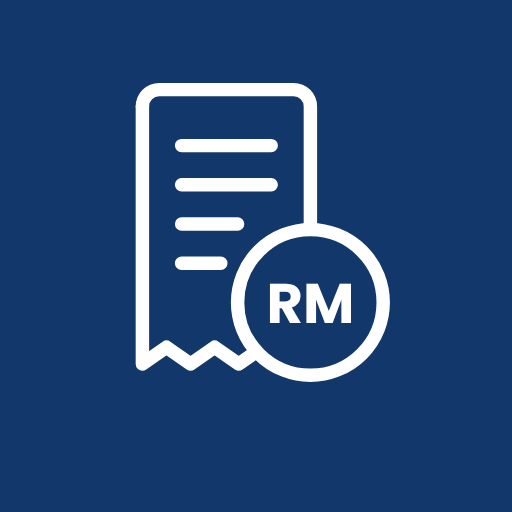
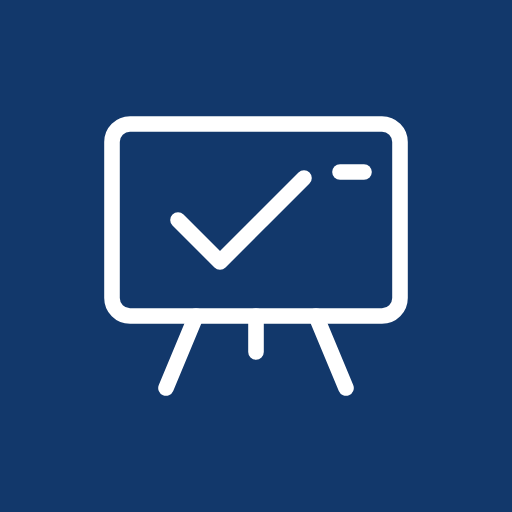
v1.8.0: Tukar nama kepada Kelasku — pembantu digital guru kelas
Nama, ikon, halaman panduan & manifest dikemas kini. Sheet/folder sedia ada
tidak terjejas (dicari melalui ID).

Claude-Session: https://claude.ai/code/session_01KuVRpLkTuLi7cEMoJuzni8

Changed region(s): [[0.1875, 0.1562, 0.8125, 0.7812]]

diff --git a/docs/index.html b/docs/index.html
@@ -3,11 +3,11 @@
 <head>
 <meta charset="utf-8">
 <meta name="viewport" content="width=device-width, initial-scale=1">
-<title>e-Yuran Murid — rekod bayaran yuran &amp; resit WhatsApp untuk guru</title>
+<title>Kelasku — pembantu digital guru kelas</title>
 <meta name="description" content="Web app percuma untuk guru merekod bayaran yuran murid (YMA, PIBG, dobi) ke Google Sheets, dengan resit dari WhatsApp ibu bapa, ringkasan kutipan dan mesej WhatsApp automatik.">
-<meta property="og:title" content="e-Yuran Murid">
+<meta property="og:title" content="Kelasku — pembantu digital guru kelas">
 <meta property="og:description" content="Rekod yuran murid & resit WhatsApp ibu bapa ke Google Sheets. Percuma, mesra telefon.">
-<meta property="og:image" content="https://g-03355699-tech.github.io/e-yuran-murid/skrin-1.jpg">
+<meta property="og:image" content="https://g-03355699-tech.github.io/kelasku/skrin-1.jpg">
 <link rel="apple-touch-icon" href="app/ikon-180.png">
 <link rel="icon" type="image/png" href="app/ikon-192.png">
 <link rel="preconnect" href="https://fonts.googleapis.com"><link rel="preconnect" href="https://fonts.gstatic.com" crossorigin>
@@ -96,12 +96,13 @@ footer{text-align:center;color:var(--kelabu);font-size:.85rem;padding:30px 20px 
     <div class="grid">
       <div>
         <svg class="logo" viewBox="0 0 64 64" aria-hidden="true" fill="none" stroke="currentColor" stroke-width="2" stroke-linecap="round" stroke-linejoin="round">
-          <path d="M14 9a3 3 0 0 1 3-3h24a3 3 0 0 1 3 3v24"/><path d="M14 9v46l4.3-3 4.3 3 4.3-3 4.3 3 4.3-3"/>
-          <path d="M21 16h16M21 23h16M21 30h10M21 37h7"/><circle cx="44" cy="44" r="13" style="fill:var(--latar-logo)"/>
-          <text x="44" y="47.5" text-anchor="middle" font-size="10" font-weight="700" fill="currentColor" stroke="none" font-family="Poppins, sans-serif">RM</text>
+          <rect x="8" y="10" width="48" height="32" rx="3"/>
+          <path d="M22 42l-5 12M42 42l5 12M32 42v6"/>
+          <path d="M19 26l7 7 14-14"/>
+          <path d="M46 18h4"/>
         </svg>
-        <h1>e-Yuran Murid <span class="versi">v1.7.1</span></h1>
-        <p class="lead">Rekod bayaran yuran murid — YMA, PIBG, dobi dan lain-lain — terus dari telefon. Ibu bapa hantar resit melalui WhatsApp, guru muat naik ke app, dan semuanya tersusun dalam Google Sheet. <b>Percuma</b>, dan data disimpan dalam Google Drive anda sendiri.</p>
+        <h1>Kelasku <span class="versi">v1.8.0</span></h1>
+        <p class="lead">Pembantu digital guru kelas. Rekod bayaran yuran murid (YMA, PIBG, dobi dan lain-lain) dan simpan eviden surat sakit / MC terus dari telefon. Ibu bapa hantar resit atau surat melalui WhatsApp, guru muat naik ke app, dan semuanya tersusun dalam Google Sheet. <b>Percuma</b>, dan data disimpan dalam Google Drive anda sendiri.</p>
         <div class="aksi">
           <a class="butang" id="btnBuka" href="#" target="_blank" rel="noopener">Buka App →</a>
           <a class="butang sekunder" href="app/">Pasang di telefon</a>
@@ -120,6 +121,7 @@ footer{text-align:center;color:var(--kelabu);font-size:.85rem;padding:30px 20px 
     <div class="grid-ciri">
       <div class="ciri"><svg class="ik"><use href="#i-resit"/></svg><h3>Resit dari WhatsApp</h3><p>Muat naik gambar atau PDF resit. Di komputer, salin gambar dalam WhatsApp Web dan tekan <b>Ctrl+V</b> — siap.</p></div>
       <div class="ciri"><svg class="ik"><use href="#i-ocr"/></svg><h3>Baca resit automatik</h3><p>Selepas resit dimuat naik, app membaca jumlah, tarikh, No. rujukan &amp; bank (OCR Google Drive) dan mengisi borang untuk anda semak.</p></div>
+      <div class="ciri"><svg class="ik"><use href="#i-pdf"/></svg><h3>Eviden surat sakit / MC</h3><p>Simpan surat sakit atau surat sebab (gambar / PDF) yang dihantar ibu bapa melalui WhatsApp. App membaca surat dan mengisi tarikh tidak hadir, jenis surat &amp; catatan secara automatik, serta menyemak nama murid.</p></div>
       <div class="ciri"><svg class="ik"><use href="#i-pdf"/></svg><h3>Penyata untuk ibu bapa</h3><p>Pautan PDF penyata yuran setiap murid — ibu bapa boleh semak status &amp; baki bila-bila masa tanpa log masuk. Dikemas kini automatik.</p></div>
       <div class="ciri"><svg class="ik"><use href="#i-log"/></svg><h3>Log audit &amp; Sampah</h3><p>Setiap tambah, ubah &amp; padam direkodkan (siapa, bila, sebelum → selepas). Bayaran dipadam masuk Sampah dan boleh dipulihkan.</p></div>
       <div class="ciri"><svg class="ik"><use href="#i-agih"/></svg><h3>Satu resit, banyak yuran</h3><p>Isi jumlah resit dan tekan <i>Agih automatik</i> — dibahagikan kepada YMA, PIBG dan lain-lain ikut baki.</p></div>
@@ -151,16 +153,16 @@ footer{text-align:center;color:var(--kelabu);font-size:.85rem;padding:30px 20px 
     <p class="sub">Untuk guru yang menguruskan yuran kelas atau sekolah. Ambil masa kira-kira 2 minit.</p>
     <div class="langkah">
       <div class="l"><h3>Tekan “Buka App”</h3><p>Di telefon atau komputer. Di komputer, anda juga boleh imbas kod QR di atas dengan telefon.</p></div>
-      <div class="l"><h3>Log masuk akaun Google</h3><p>Pilih akaun yang mahu digunakan. Sheet <i>e-Yuran Murid</i> akan dicipta dalam Google Drive akaun ini.
+      <div class="l"><h3>Log masuk akaun Google</h3><p>Pilih akaun yang mahu digunakan. Sheet <i>Kelasku</i> akan dicipta dalam Google Drive akaun ini.
         Jika akaun DELIMa (<code>@moe-dl.edu.my</code>) tidak dibenarkan oleh pentadbir domain, gunakan akaun Gmail.</p></div>
       <div class="l penting"><h3>Amaran “Google hasn’t verified this app”</h3>
         <p>Ini <b>normal</b> untuk app percuma yang dibina sendiri dan belum melalui proses semakan Google. Untuk teruskan:</p>
         <div class="lakaran">
           <div class="t">Google hasn’t verified this app</div>
           <div class="baris"><span class="anak-panah">① tekan</span> <span class="pautan">Advanced</span></div>
-          <div class="baris"><span class="anak-panah">② tekan</span> <span class="pautan">Go to e-Yuran Murid (unsafe)</span></div>
+          <div class="baris"><span class="anak-panah">② tekan</span> <span class="pautan">Go to Kelasku (unsafe)</span></div>
         </div>
-        <p style="margin-top:10px">Perkataan “unsafe” hanya bermaksud app belum disemak oleh Google. Kod sumber app ini terbuka untuk dilihat di <a href="https://github.com/g-03355699-tech/e-yuran-murid" target="_blank" rel="noopener">GitHub</a>.</p>
+        <p style="margin-top:10px">Perkataan “unsafe” hanya bermaksud app belum disemak oleh Google. Kod sumber app ini terbuka untuk dilihat di <a href="https://github.com/g-03355699-tech/kelasku" target="_blank" rel="noopener">GitHub</a>.</p>
       </div>
       <div class="l"><h3>Tekan “Allow” untuk benarkan akses</h3>
         <p>App memerlukan kebenaran ini untuk berfungsi:</p>
@@ -179,7 +181,7 @@ footer{text-align:center;color:var(--kelabu);font-size:.85rem;padding:30px 20px 
 
 <section style="padding-top:0">
   <div class="bekas">
-    <h2>Rutin harian: dari WhatsApp ke e-Yuran</h2>
+    <h2>Rutin harian: dari WhatsApp ke Kelasku</h2>
     <p class="sub">Kurang seminit bagi setiap resit.</p>
     <div class="langkah">
       <div class="l wa"><h3>Ibu bapa hantar resit melalui WhatsApp</h3><p>Gambar resit bank, tangkapan skrin FPX atau PDF.</p></div>
@@ -207,20 +209,20 @@ footer{text-align:center;color:var(--kelabu);font-size:.85rem;padding:30px 20px 
     <h2>Privasi &amp; keselamatan</h2>
     <p class="sub">Data murid kekal dalam akaun Google sekolah/guru — bukan pada pelayan pembangun.</p>
     <div class="privasi">
-      <h3>Di mana data disimpan?</h3><p>Dalam Google Sheet <i>e-Yuran Murid</i> di Google Drive guru yang mula-mula membuka app. Resit disimpan dalam folder <i>Resit e-Yuran Murid</i> di Drive guru yang memuat naik, dan salinannya dalam tab tersembunyi <code>ResitData</code> supaya semua guru yang dikongsi boleh melihatnya.</p>
+      <h3>Di mana data disimpan?</h3><p>Dalam Google Sheet <i>Kelasku</i> di Google Drive guru yang mula-mula membuka app. Resit disimpan dalam folder <i>Resit Kelasku</i> di Drive guru yang memuat naik, dan salinannya dalam tab tersembunyi <code>ResitData</code> supaya semua guru yang dikongsi boleh melihatnya.</p>
       <h3>Bolehkah pembangun app melihat data?</h3><p>Tidak. App berjalan menggunakan akaun guru sendiri (<i>execute as user accessing</i>), dan tiada data dihantar ke pelayan pembangun atau pihak ketiga.</p>
       <h3>Penyata untuk ibu bapa</h3><p>Penyata ialah PDF dalam Drive guru yang menciptanya, dikongsi “sesiapa yang ada pautan” (lihat sahaja). Ia mengandungi nama, kelas, No. KP separa, status yuran &amp; sejarah bayaran — <b>tanpa</b> pendapatan isi rumah. Penyata hanya dicipta apabila guru menekan butang, dan boleh ditarik balik bila-bila masa. Jika domain akaun anda menyekat perkongsian awam, gunakan akaun Gmail.</p>
       <h3>Log &amp; Sampah</h3><p>Tab <code>Log</code> dalam Sheet merekod setiap perubahan. Bayaran yang dipadam disimpan dalam Sampah sehingga dipadam kekal oleh pentadbir.</p>
       <h3>Siapa boleh melihat data murid?</h3><p>Hanya guru yang diberi akses kepada Sheet oleh pentadbir. Pendapatan isi rumah dan No. KP adalah maklumat peribadi — kongsi hanya dengan guru yang perlu, dan buang akses guru yang sudah bertukar.</p>
       <h3>Apa yang app akses?</h3>
       <ul>
-        <li><b>Sheets</b> — membaca &amp; menulis Sheet e-Yuran (dan Sheet yang dikongsi dengan anda).</li>
+        <li><b>Sheets</b> — membaca &amp; menulis Sheet Kelasku (dan Sheet yang dikongsi dengan anda).</li>
         <li><b>Drive</b> — skop <code>drive.file</code>: hanya fail yang dicipta oleh app ini.</li>
         <li><b>Emel</b> — mengenal pasti akaun anda untuk semakan akses guru.</li>
         <li><b>Perkhidmatan luar</b> — membaca teks resit yang ditukar oleh Google Drive (fail sementara dipadam serta-merta).</li>
       </ul>
       <h3>Bagaimana berhenti menggunakan app?</h3><p>Tarik balik kebenaran di <a href="https://myaccount.google.com/permissions" target="_blank" rel="noopener">myaccount.google.com/permissions</a>. Sheet &amp; folder resit kekal dalam Drive anda.</p>
-      <h3>Hubungi</h3><p>Soalan atau laporan masalah: buka <a href="https://github.com/g-03355699-tech/e-yuran-murid/issues" target="_blank" rel="noopener">isu di GitHub</a>.</p>
+      <h3>Hubungi</h3><p>Soalan atau laporan masalah: buka <a href="https://github.com/g-03355699-tech/kelasku/issues" target="_blank" rel="noopener">isu di GitHub</a>.</p>
     </div>
   </div>
 </section>
@@ -230,8 +232,8 @@ footer{text-align:center;color:var(--kelabu);font-size:.85rem;padding:30px 20px 
     <details class="dev">
       <summary>Untuk pembangun: terbitkan salinan app sendiri</summary>
       <ol style="margin-top:14px">
-        <li>Buka <a href="https://script.google.com/home/projects/create" target="_blank" rel="noopener">script.google.com → New project</a>, namakan <b>e-Yuran Murid</b>.</li>
-        <li>Salin <code>Code.gs</code> dan <code>Index.html</code> (Fail → HTML, nama <code>Index</code>) dari <a href="https://github.com/g-03355699-tech/e-yuran-murid" target="_blank" rel="noopener">repo GitHub</a>.</li>
+        <li>Buka <a href="https://script.google.com/home/projects/create" target="_blank" rel="noopener">script.google.com → New project</a>, namakan <b>Kelasku</b>.</li>
+        <li>Salin <code>Code.gs</code> dan <code>Index.html</code> (Fail → HTML, nama <code>Index</code>) dari <a href="https://github.com/g-03355699-tech/kelasku" target="_blank" rel="noopener">repo GitHub</a>.</li>
         <li>⚙ Project Settings → tandakan <i>Show "appsscript.json"</i>, kemudian ganti kandungannya dengan <code>appsscript.json</code> dari repo (ini juga mengaktifkan Drive API v3).</li>
         <li><b>Deploy → New deployment → Web app</b>: <i>Execute as</i> = <b>User accessing the web app</b>, <i>Who has access</i> = <b>Anyone with Google account</b>.</li>
         <li>Salin URL <code>…/exec</code> dan masukkan ke dalam <code>docs/config.js</code> supaya butang &amp; kod QR halaman ini menghala ke app anda.</li>
@@ -242,7 +244,7 @@ footer{text-align:center;color:var(--kelabu);font-size:.85rem;padding:30px 20px 
   </div>
 </section>
 
-<footer>Dibangunkan oleh <b>Ibrahim bin Kadri (9M2IBR)</b> · Lesen <a href="https://github.com/g-03355699-tech/e-yuran-murid/blob/main/LICENSE">MIT</a> · <a href="https://github.com/g-03355699-tech/e-yuran-murid">Kod sumber</a></footer>
+<footer>Dibangunkan oleh <b>Ibrahim bin Kadri (9M2IBR)</b> · Lesen <a href="https://github.com/g-03355699-tech/kelasku/blob/main/LICENSE">MIT</a> · <a href="https://github.com/g-03355699-tech/kelasku">Kod sumber</a></footer>
 
 <script src="config.js"></script>
 <script src="qrcode.js"></script>

diff --git a/Index.html b/Index.html
@@ -293,15 +293,14 @@
   <header>
     <div class="dalam">
       <svg class="logo" viewBox="0 0 64 64" aria-hidden="true" fill="none" stroke="currentColor" stroke-width="2" stroke-linecap="round" stroke-linejoin="round">
-        <path d="M14 9a3 3 0 0 1 3-3h24a3 3 0 0 1 3 3v24"/>
-        <path d="M14 9v46l4.3-3 4.3 3 4.3-3 4.3 3 4.3-3"/>
-        <path d="M21 16h16M21 23h16M21 30h10M21 37h7"/>
-        <circle cx="44" cy="44" r="13" style="fill:var(--latar-logo,#12386b)"/>
-        <text x="44" y="47.5" text-anchor="middle" font-size="10" font-weight="700" fill="currentColor" stroke="none" font-family="Poppins, sans-serif">RM</text>
+        <rect x="8" y="10" width="48" height="32" rx="3"/>
+        <path d="M22 42l-5 12M42 42l5 12M32 42v6"/>
+        <path d="M19 26l7 7 14-14"/>
+        <path d="M46 18h4"/>
       </svg>
       <div>
-        <h1>e-Yuran Murid <span class="versi" id="versi"></span></h1>
-        <div class="sub" id="subTajuk">Rekod bayaran yuran &amp; resit</div>
+        <h1>Kelasku <span class="versi" id="versi"></span></h1>
+        <div class="sub" id="subTajuk">Pembantu digital guru kelas</div>
       </div>
       <div class="kanan-h">
         <button class="btn-h" id="btnRuang" title="Sheet &amp; perkongsian" onclick="bukaRuang()"></button>
@@ -319,7 +318,7 @@
 
     <!-- Tiada akses -->
     <section id="vAkses" class="kad tersembunyi">
-      <h2>Tidak dapat membuka e-Yuran</h2>
+      <h2>Tidak dapat membuka Kelasku</h2>
       <p class="kecil" id="aksesTeks">Emel akaun Google anda tidak dapat dikesan. Pastikan anda log masuk ke akaun Google dan benarkan akses semasa membuka app.</p>
       <button class="btn" onclick="location.reload()">Cuba lagi</button>
     </section>
@@ -327,8 +326,8 @@
     <!-- Utama -->
     <div id="vUtama" class="tersembunyi">
       <section class="kad tersembunyi" id="kadMula">
-        <h2>Selamat datang ke e-Yuran Murid 👋</h2>
-        <p class="kecil" style="margin-top:-4px">Sheet <b>e-Yuran Murid</b> telah dicipta dalam Google Drive anda. Tiga langkah untuk bermula:</p>
+        <h2>Selamat datang ke Kelasku 👋</h2>
+        <p class="kecil" style="margin-top:-4px">Sheet <b>Kelasku</b> telah dicipta dalam Google Drive anda. Tiga langkah untuk bermula:</p>
         <ol class="kecil" style="padding-left:18px;line-height:1.7;margin:0">
           <li><b>Tetapan</b> (ikon ⚙ di atas): isi nama sekolah, semak jenis &amp; amaun yuran.</li>
           <li><b>Import pukal</b>: tampal senarai murid dari Google Sheet lama anda.</li>
@@ -541,7 +540,7 @@
   </main>
 
   <footer>
-    e-Yuran Murid · Google Sheets + Apps Script · <a href="https://g-03355699-tech.github.io/e-yuran-murid/" target="_blank" rel="noopener" style="color:var(--navy)">Panduan</a>
+    Kelasku · Google Sheets + Apps Script · <a href="https://g-03355699-tech.github.io/kelasku/" target="_blank" rel="noopener" style="color:var(--navy)">Panduan</a>
   </footer>
 
   <!-- Pembangun & derma -->
@@ -559,11 +558,11 @@
   <div id="modalDerma" class="modal tersembunyi" onclick="if (event.target === this) this.classList.add('tersembunyi')">
     <div class="kotak" role="dialog" aria-modal="true">
       <h3>Sokong app ini ❤</h3>
-      <p>e-Yuran Murid adalah percuma. Jika ia membantu anda, sumbangan anda membantu penyelenggaraan dan ciri baharu.</p>
+      <p>Kelasku adalah percuma. Jika ia membantu anda, sumbangan anda membantu penyelenggaraan dan ciri baharu.</p>
       <p class="kecil" style="margin:0">Tangkap layar kod QR ini, kemudian imbas melalui app bank atau e-wallet (DuitNow QR).</p>
-      <img src="https://raw.githubusercontent.com/g-03355699-tech/e-yuran-murid/main/docs/derma-qr.png" alt="QR DuitNow" loading="lazy">
+      <img src="https://raw.githubusercontent.com/g-03355699-tech/kelasku/main/docs/derma-qr.png" alt="QR DuitNow" loading="lazy">
       <div class="nota">Imbas dengan app bank atau e-wallet anda.</div>
-      <a class="btn wa" style="text-decoration:none" href="https://wa.me/60193002591?text=Salam%2C%20saya%20ingin%20menderma%20untuk%20app%20e-Yuran%20Murid." target="_blank" rel="noopener">Hubungi melalui WhatsApp</a>
+      <a class="btn wa" style="text-decoration:none" href="https://wa.me/60193002591?text=Salam%2C%20saya%20ingin%20menderma%20untuk%20app%20Kelasku." target="_blank" rel="noopener">Hubungi melalui WhatsApp</a>
       <button class="btn sekunder" onclick="$('modalDerma').classList.add('tersembunyi')">Tutup</button>
     </div>
   </div>
@@ -699,7 +698,7 @@
     window.scrollTo({ top: 0, behavior: 'smooth' });
   }
 
-  const VERSI_UI = '1.7.1';
+  const VERSI_UI = '1.8.0';
   const PANDUAN_KEMAS = 'Salin Code.gs terkini dari GitHub ke projek Apps Script, tekan Simpan, kemudian Deploy → Manage deployments → ✏ Edit → Version: New version → Deploy.';
   function run(fn, ...arg) {
     return new Promise((ok, gagal) => {
@@ -2272,7 +2271,7 @@
   }
   const pautanJemputan = () => `${D.appUrl}?sertai=${D.ruang.id}`;
   function teksJemputan(nama) {
-    return `Assalamualaikum${nama ? ' ' + nama : ''},\n\nAnda dijemput menggunakan *e-Yuran Murid* ${D.tetapan.namaSekolah} untuk merekod bayaran yuran murid.\n\nBuka pautan ini (log masuk dengan emel yang didaftarkan):\n${pautanJemputan()}\n\nPanduan: https://g-03355699-tech.github.io/e-yuran-murid/`;
+    return `Assalamualaikum${nama ? ' ' + nama : ''},\n\nAnda dijemput menggunakan *Kelasku* ${D.tetapan.namaSekolah}, app pengurusan kelas (yuran murid, resit & surat/MC).\n\nBuka pautan ini (log masuk dengan emel yang didaftarkan):\n${pautanJemputan()}\n\nPanduan: https://g-03355699-tech.github.io/kelasku/`;
   }
   function jemputWa(i) { window.open('https://wa.me/?text=' + encodeURIComponent(teksJemputan(guruEdit[i].nama)), '_blank'); }
   async function salinJemputan() {
@@ -2309,7 +2308,7 @@
       </section>
       <section class="kad">
         <h2>Sertai Sheet guru lain</h2>
-        <p class="kecil" style="margin-top:-6px">Tampal pautan jemputan atau kod yang diberi oleh pentadbir e-Yuran sekolah/kelas anda.</p>
+        <p class="kecil" style="margin-top:-6px">Tampal pautan jemputan atau kod yang diberi oleh pentadbir Kelasku sekolah/kelas anda.</p>
         <input id="kodSertai" placeholder="Pautan jemputan atau kod Sheet">
         <button class="btn" id="btnSertai" onclick="hantarSertai()">Sertai</button>
       </section>`;

diff --git a/docs/app/index.html b/docs/app/index.html
@@ -3,13 +3,13 @@
 <head>
 <meta charset="utf-8">
 <meta name="viewport" content="width=device-width, initial-scale=1, viewport-fit=cover">
-<title>e-Yuran Murid</title>
+<title>Kelasku</title>
 <link rel="apple-touch-icon" href="ikon-180.png">
 <link rel="icon" type="image/png" href="ikon-192.png">
 <link rel="manifest" href="manifest.json">
 <meta name="apple-mobile-web-app-capable" content="yes">
 <meta name="mobile-web-app-capable" content="yes">
-<meta name="apple-mobile-web-app-title" content="e-Yuran">
+<meta name="apple-mobile-web-app-title" content="Kelasku">
 <meta name="apple-mobile-web-app-status-bar-style" content="black-translucent">
 <meta name="theme-color" content="#12386b">
 <style>
@@ -36,12 +36,12 @@
 <body>
 <div class="kotak">
   <img class="ikon" src="ikon-180.png" alt="">
-  <h1>e-Yuran Murid</h1>
+  <h1>Kelasku</h1>
 
   <div class="muat"><p>Membuka app…</p><div class="putar"></div></div>
 
   <div class="biasa">
-    <p>Pasang di skrin utama telefon supaya boleh dibuka seperti app biasa. Kali pertama dibuka, Sheet e-Yuran anda dicipta secara automatik.</p>
+    <p>Pasang di skrin utama telefon supaya boleh dibuka seperti app biasa. Kali pertama dibuka, Sheet Kelasku anda dicipta secara automatik.</p>
     <a class="butang" id="buka" href="#">Buka App</a>
     <div class="langkah" id="ios">
       <b>iPhone (Safari atau Chrome)</b>
